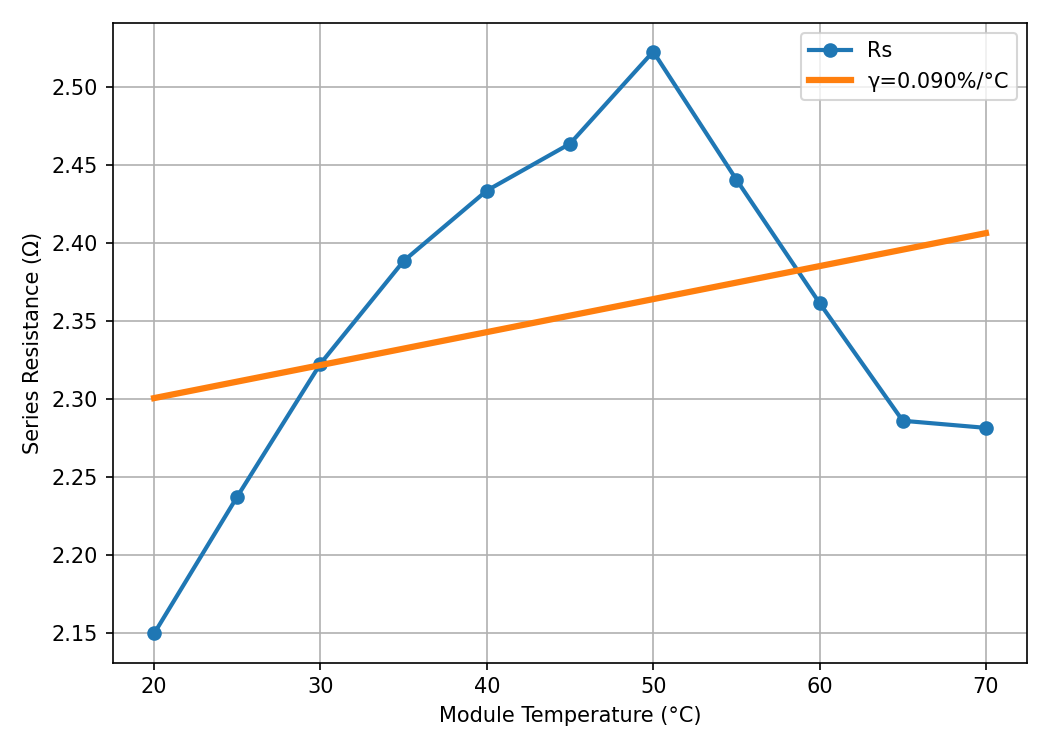
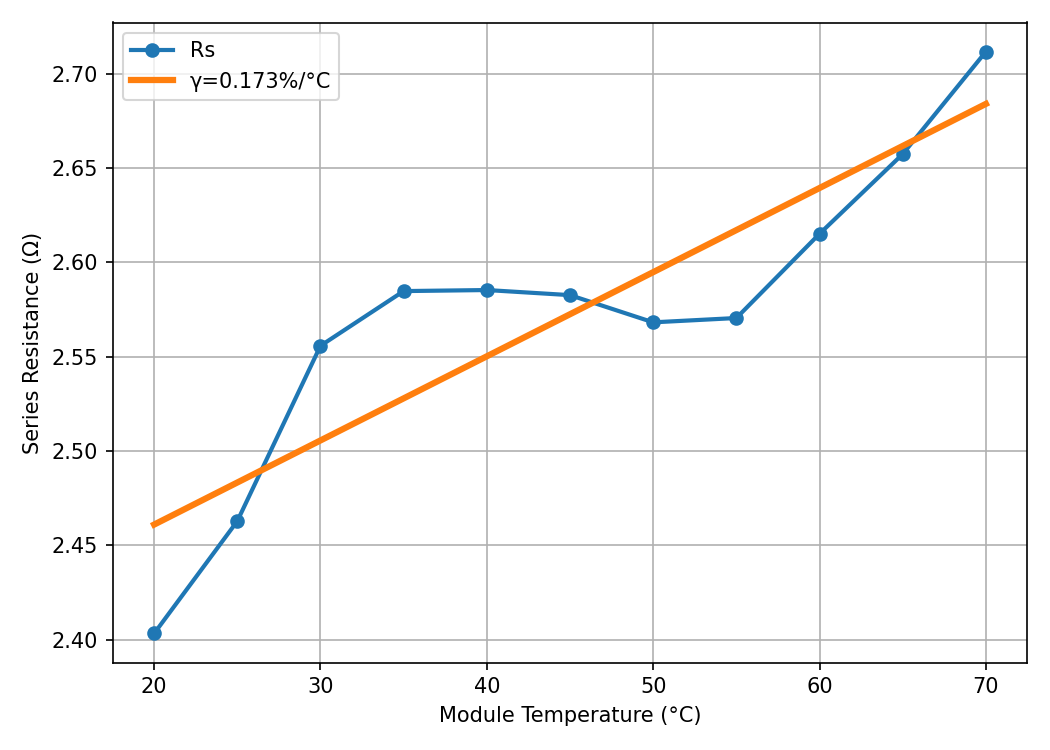
Corrected trends

diff --git a/predict_params.py b/predict_params.py
@@ -4,6 +4,7 @@ import numpy as np
 import torch
 import pandas as pd
 import matplotlib.pyplot as plt
+from numpy.ma.core import negative
 
 from model_autoencoder import PhysicsInformedJVModel
 
@@ -242,7 +243,8 @@ def evaluate_diode_model(
 
         Iph_t, Io_t, n_t, Rs_t, Rsh_t = diode_true[idx]
         Iph_p, Io_p, n_p, Rs_p, Rsh_p = params_preds[idx]
-
+        if Rsh_p < 0:
+            Rsh_p = -(Rsh_p)
 
 
 
@@ -381,11 +383,17 @@ def plot_electrical_params(df, params_true, params_pred, out_dir):
 
 
 if __name__ == "__main__":
+    # preds, physics_results = evaluate_diode_model(
+    #     model_path="models/jv_autoencoder_silicon.pth",
+    #     dataset_path="data/jv_autoencoder_dataset_silicon.npz",
+    #     tech="SunPower_5-1",
+    #     num_curves=10,
+    # )
+
     preds, physics_results = evaluate_diode_model(
-        model_path="models/jv_autoencoder_silicon.pth",
-        dataset_path="data/jv_autoencoder_dataset_silicon.npz",
-        tech="SunPower_5-1",
-        num_curves=10,
+        dataset_path="data/jv_autoencoder_dataset_perovskite.npz",
+    model_path="models/jv_autoencoder_perovskite.pth",
+    tech="Perovskite_5&6", num_curves=10,
     )
     # curves = np.load("outputs/SunPower_5-1/ae/physics/metrics/curves.npz")
     # params_true = curves["diode_true"]

diff --git a/temp_analysis.py b/temp_analysis.py
@@ -143,6 +143,8 @@ def analyze_temperature(dataset_path, model_path, tech):
         diode_params = diode_params * diode_stats["std"] + diode_stats["mean"]
 
         Iph, Io, n, Rs, Rsh = diode_params
+        if Rsh < 0:
+            Rsh = -Rsh
 
         vocs.append(Voc)
         jscs.append(Jsc)
